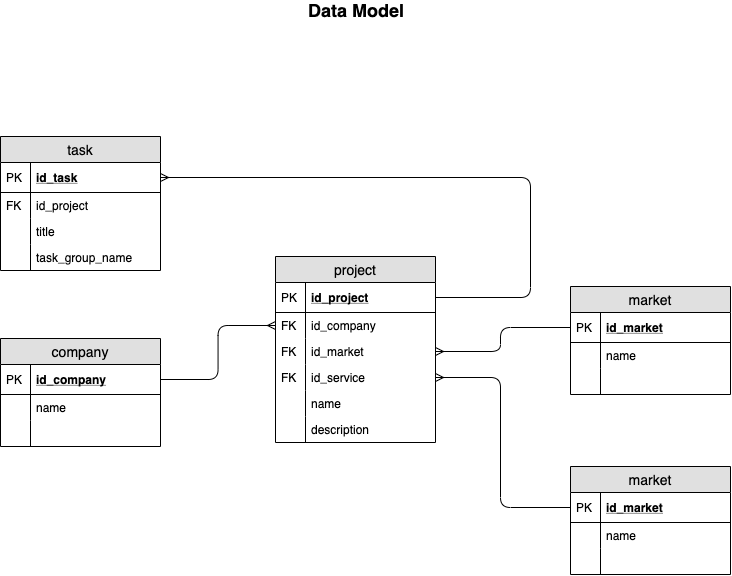
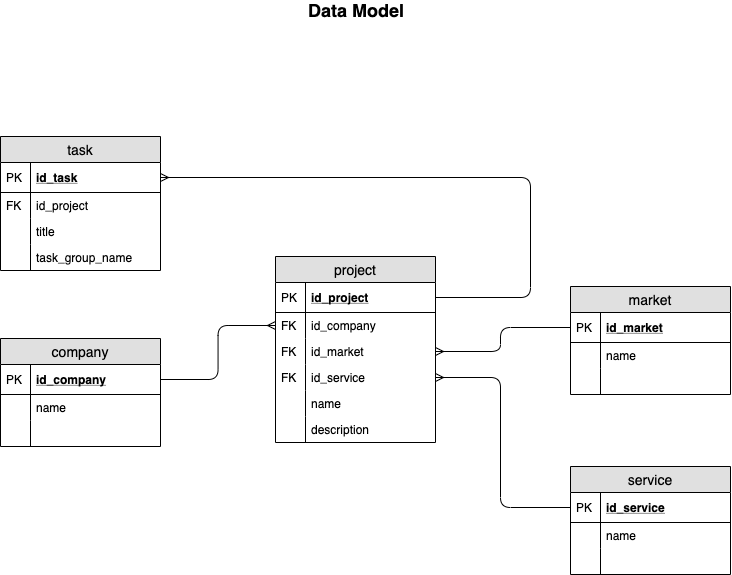
corrección imagen mer y documentación aplicación

diff --git a/README.md b/README.md
@@ -1,2 +1,97 @@
 # SpringBoot-Api-Rest-TechnicalTest-API-FREEDCAMP
 Prueba técnica para validar habilidades de programación con el propósito de aplicar a una vacante de trabajo para el cargo de Desarrollador BackEnd Freelance.
+
+## Enunciado de la prueba técnica
+
+Para esta prueba utilizaremos un escenario con Freedcamp. Una herramienta para el desarrollo de proyectos que permite colaboración por equipos y definición especifica de procesos y tareas. Tiene una version gratuita, y para esta prueba debe crear una cuenta y dos proyectos con las siguientes caracteristicas:
+
+![alt text](src/main/resources/images/freedcamp.png)
+
+La estructura del proyecto en freedcamp debe tener: Dos listas de tareas como mínimo, y una serie de tareas específicas despues (mínimo dos por lista). Una vez creados los proyectos en freedcamp, debe crear una app web, que tenga autenticación de usuarios (Login/Registro) y permita consultar la información de Freedcamp (API FREEDCAMP) procesando los datos del lado del servidor, con su respectiva API REST. Para esto puede usar las herramientas y tecnologías que prefiera (Lenguajes y frameworks).
+
+Por otro lado, la app gestiona información empresarial que está organizada de la siguiente manera: Existen empresas, mercados, servicios y tareas específicas. Debe diseñar y crear una base de datos con esas características.
+
+TIP: Use las descripciones de proyecto dentro de freedcamp para enlazar la información.
+
+![alt text](src/main/resources/images/modeldata.png)
+
+La estructura de información indica que existen dos empresas principales (EMPRESA1 Y EMPRESA2), los mercados, servicios y a su vez tareas específicas (que se crean en freedcamp por lo general) pueden compartirse desde la base de datos. Estos servicios deben conectar a un mercado, sin embargo, un mismo servicio se puede prestar en ambas empresas para distintos mercados. Ej. Desarrollo de software es un servicio que se brinda a BMW y MINI desde EMPRESA2, pero por parte de EMPRESA1 se brinda a VOLVO y KIA.
+
+Finalmente la app debe consultar la cuenta de freedcamp, almacenar la información en una base de datos (usted decide si es relacional o no relacional) y traer los datos de los dos proyectos con sus respectivas listas y tareas. Esta información debe estar asignada a una empresa, mercado y servicio pertinente.
+
+El diseño de esta base de datos debe permitir tener N cantidad de servicios y tareas. Es decir, no debe existir problema en caso de que el cliente quiera agregar más del uno o del otro.
+
+Como es una prueba enfocada a Back end, no es necesario profundizar en los estilos de la página sino en el tratamiento de los datos desde el lado del servidor. Eso si, la información debe mostrarse de forma legible desde la app.
+
+## Configuración de ambiente
+
+Con el proposito de disminuir la compleja tarea de configuración del ambiente de desarrollo se opto por utilizar la tecnología Spring-boot que permite ejecutar aplicaciones Stand-alone. Aunque, también es posible ejecutar las mismas aplicaciones en entornos web con ciertos ajustes de configuración. A continuación, se describirá la manera como debe ser puesta en funcionamiento.
+
+### Maven
+
+Si usted no ha tenido la oportunidad de haber utilizado una herramienta de software, para la gestión y construcción de proyectos, como Maven no se preocupe para el proposito del proyecto es necesario que tenga en cuenta que debe realizar los siguientes pasos para descargar librerias que el proyecto necesita y para validar que el proyecto no presente ninguna inconsistencia. Luego, de descargar el proyecto, en Eclipse, proceda a realizar las siguientes acciones:
+
+- Descargar librerias: en Eclipse, ubicarse encima de la raíz del proyecto y dar boton derecho, buscar la opción en el menú desplegable, "Maven" y luego seleccionar la opción "Update Project...". En ese instante empezara a descargar las librerias necesarias, tomara unos minutos hacerlo.
+
+- Validar que el proyecto no presente inconsistencias: en Eclipse, ubicarse encima de la raíz del proyecto y dar boton derecho, buscar la opción en el menú desplegable, "Run As" y luego seleccionar la opción "Maven install". Al final, en la consola aparecera un mensaje en mayuscula similar a este: "BUILD SUCCESS" si todo esta correcto.
+
+### Base de datos relacional
+
+Se utilizo la base de datos relacional embebida que ofrece la tecnología Spring-boot con el fin de agilizar el proceso de implementación. Cabe señalar, que esta base de datos es temporal, es decir los datos regresaran al estado original respetando el script inicial de carga, cuando la aplicación nuevamente es desplegada. De acuerdo con las especificaciones técnicas, las instrucciones DDL se incluyen en el archivo schema.sql y las DML en el archivo data.sql, dentro de la carpeta:
+
+`/api/src/main/resources`
+
+El modelo datos definido para la aplicación esta definido en el siguiente modelo entidad relación.
+
+![alt text](src/main/resources/images/mer.png)
+
+
+### Enlazar información
+
+Con el proposito de asignar la empresa, el mercado y el servicio al proyecto en Freedcamp, se utilizo el campo: "Project Description". El primer numero representa el consecutivo asignado a la empresa en base de datos, el segundo representa el mercado y el tercero el servicio.
+
+![alt text](src/main/resources/images/linkinfo.png)
+
+
+## Iniciar aplicación
+
+Buscar en el proyecto, el archivo:
+
+`com.freedcamp.api.ApiApplication.java`
+
+Dar boton derecho encima de este y buscar la opción en el menú desplegable "Run As", luego seleccionar la opción "Java Application". Despues, en la consola de Eclipse usted podra apreciar como un servidor embebido, propio de la tecnología Spring-boot, inicia. Hay que tener en cuenta, que el servidor utiliza por default el puerto 8080, si actualmente lo esta utilizando opte por dejarlo libre o considere cambiar el puerto en el siguiente archivo de propiedades:
+
+`/src/main/resources/application.properties`
+
+Adicione una linea al final, como el ejemplo:
+
+`server.port=8090`
+
+
+## Usar aplicación
+
+#### Para utilizar la aplicación usar la siguiente url:
+
+`http://localhost:8080/`
+
+Para cargar los datos desde Freedcamp, es necesario digitar el Public api key y el Secret api key en los campos corrrespondientes, posteriormente dar clic en el botón "Upload". De esta manera la aplicación invoca los servicios api expuestos por Freedcamp asociados a estas llaves y luego inserta los datos devueltos en base de datos.
+
+![alt text](src/main/resources/images/screen.png)
+
+> NOTA: si no cuenta con las key's, considere utilizar las siguientes de pruebas:
+>- Public api key: 7e9df0d89f77a1c897c28b770911e0e7f8cf46db
+>- Secret api key: 4fafefc314c726237b23c73b6ae925dbf08fc15b
+
+#### Los api rest de Freedcamp invocados fueron:
+
+`https://freedcamp.com/api/v1/projects`
+
+Trae información basica del proyecto también, el consecutivo asignado en la plataforma. Este consecutivo es necesario para traer las tareas asociadas al proyecto.
+
+`https://freedcamp.com/api/v1/tasks`
+
+Trae información básica de las tareas. Es necesario conocer el consecutivo del proyecto.
+
+Más información de los api rest en el siguiente enlace:
+
+https://freedcamp.com/Mobile_7Yh/iOS_application_6zp/wiki/wiki_public/view/DFaab#description
